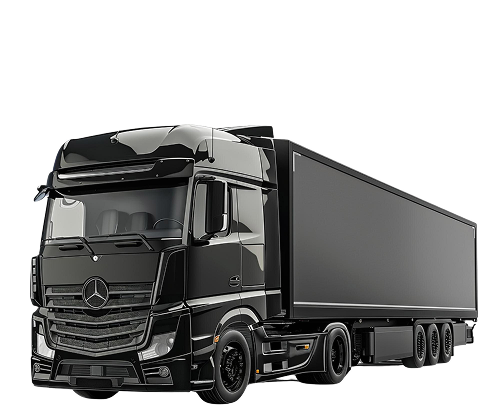
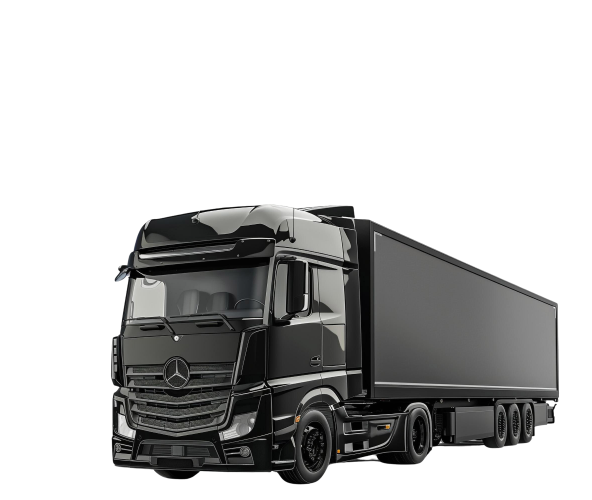
fix

diff --git a/index.html b/index.html
@@ -280,7 +280,7 @@
           <img
             src="./assets/images/mainShort.png"
             alt="main"
-            class="w-full rounded-b-[3.5rem] max-h-240 max-[1920px]:hidden"
+            class="w-full rounded-b-[3.5rem] object-cover max-h-240 max-[1920px]:hidden"
           />
           <img
             src="./assets/images/mainDesktop.png"
@@ -302,7 +302,7 @@
           <img
             src="./assets/images/mainShort.png"
             alt="main"
-            class="w-full rounded-b-[3.5rem] max-h-240 max-[1920px]:hidden"
+            class="w-full rounded-b-[3.5rem] object-cover max-h-240 max-[1920px]:hidden"
           />
           <img
             src="./assets/images/mainDesktop.png"
@@ -324,7 +324,7 @@
           <img
             src="./assets/images/mainShort.png"
             alt="main"
-            class="w-full rounded-b-[3.5rem] max-h-240 max-[1920px]:hidden"
+            class="w-full rounded-b-[3.5rem] object-cover max-h-240 max-[1920px]:hidden"
           />
           <img
             src="./assets/images/mainDesktop.png"
@@ -346,7 +346,7 @@
           <img
             src="./assets/images/mainShort.png"
             alt="main"
-            class="w-full rounded-b-[3.5rem] max-h-240 max-[1920px]:hidden"
+            class="w-full rounded-b-[3.5rem] object-cover max-h-240 max-[1920px]:hidden"
           />
           <img
             src="./assets/images/mainDesktop.png"
@@ -368,7 +368,7 @@
           <img
             src="./assets/images/mainShort.png"
             alt="main"
-            class="w-full rounded-b-[3.5rem] max-h-240 max-[1920px]:hidden"
+            class="w-full rounded-b-[3.5rem] object-cover max-h-240 max-[1920px]:hidden"
           />
           <img
             src="./assets/images/mainDesktop.png"
@@ -390,7 +390,7 @@
           <img
             src="./assets/images/mainShort.png"
             alt="main"
-            class="w-full rounded-b-[3.5rem] max-h-240 max-[1920px]:hidden"
+            class="w-full rounded-b-[3.5rem] object-cover max-h-240 max-[1920px]:hidden"
           />
           <img
             src="./assets/images/mainDesktop.png"
@@ -956,7 +956,7 @@
             <img
               src="./assets/images/service1.png"
               alt="service1"
-              class="service-card-image absolute bottom-0 right-0 w-120 h-100 max-[768px]:hidden max-[1440px]:w-70 max-[1440px]:h-60 max-[1440px]:-right-17 max-[1024px]:-right-10 max-[1024px]:h-60 max-[1024px]:w-75"
+              class="service-card-image absolute bottom-0 right-0 w-full! h-full! max-[768px]:hidden"
             />
             <img
               src="./assets/images/service1mobile.png"
@@ -982,7 +982,7 @@
             <img
               src="./assets/images/service2.png"
               alt="service1"
-              class="service-card-image absolute bottom-0 right-0 w-120 h-100 max-[768px]:hidden max-[768px]:right-0 max-[1440px]:w-70 max-[1440px]:h-60 max-[1024px]:right-8"
+              class="service-card-image absolute bottom-0 right-0 w-full! h-full!"
             />
             <img
               src="./assets/images/service2mobile.png"
@@ -1008,7 +1008,7 @@
             <img
               src="./assets/images/service3.png"
               alt="service1"
-              class="service-card-image absolute bottom-0 right-3 w-120 h-100 max-[1440px]:hidden max-[768px]:hidden max-[768px]:right-0 max-[1440px]:h-50 max-[1024px]:right-11 max-[1024px]:bottom-2 max-[1024px]:w-60 max-[1024px]:h-50"
+              class="service-card-image absolute bottom-0 right-3 w-full! h-full!"
             />
             <img
               src="./assets/images/service3Tablet.png"
@@ -1039,7 +1039,7 @@
             <img
               src="./assets/images/service4.png"
               alt="service1"
-              class="service-card-image absolute bottom-0 right-0 w-185 h-120 object-cover max-[768px]:hidden max-[768px]:h-40 max-[768px]:right-0 max-[1440px]:w-110 max-[1440px]:h-70 max-[1024px]:-right-4 max-[1024px]:h-50 max-[1024px]:bottom-2"
+              class="service-card-image absolute bottom-0 right-0 w-full! h-full!"
             />
             <img
               src="./assets/images/service4mobile.png"
@@ -1065,7 +1065,7 @@
             <img
               src="./assets/images/service5.png"
               alt="service1"
-              class="service-card-image absolute bottom-0 right-0 w-195 h-130 object-cover max-[1440px]:hidden max-[1440px]:h-90 max-[1024px]:hidden"
+              class="service-card-image absolute bottom-0 right-0 w-full! h-full!"
             />
             <img
               src="./assets/images/service5Tablet.png"

diff --git a/css/output.css b/css/output.css
@@ -463,32 +463,14 @@
   .h-full {
     height: 100%;
   }
-  .max-h-200 {
-    max-height: calc(var(--spacing) * 200);
-  }
-  .max-h-230 {
-    max-height: calc(var(--spacing) * 230);
+  .h-full\! {
+    height: 100% !important;
   }
   .max-h-240 {
     max-height: calc(var(--spacing) * 240);
   }
-  .max-h-250 {
-    max-height: calc(var(--spacing) * 250);
-  }
-  .max-h-280 {
-    max-height: calc(var(--spacing) * 280);
-  }
-  .max-h-300 {
-    max-height: calc(var(--spacing) * 300);
-  }
   .max-h-315 {
     max-height: calc(var(--spacing) * 315);
-  }
-  .max-h-320 {
-    max-height: calc(var(--spacing) * 320);
-  }
-  .max-h-340 {
-    max-height: calc(var(--spacing) * 340);
   }
   .w-6 {
     width: calc(var(--spacing) * 6);
@@ -2960,11 +2942,6 @@
     @media (width < 768px) {
       overflow-wrap: normal;
       word-break: normal;
-    }
-  }
-  .min-\[1024px\]\:max-h-230 {
-    @media (width >= 1024px) {
-      max-height: calc(var(--spacing) * 230);
     }
   }
   .min-\[1024px\]\:max-h-240 {
